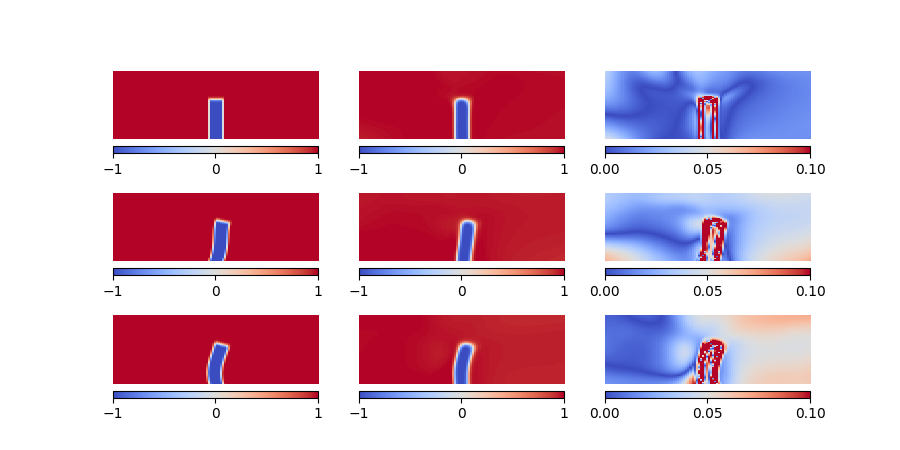
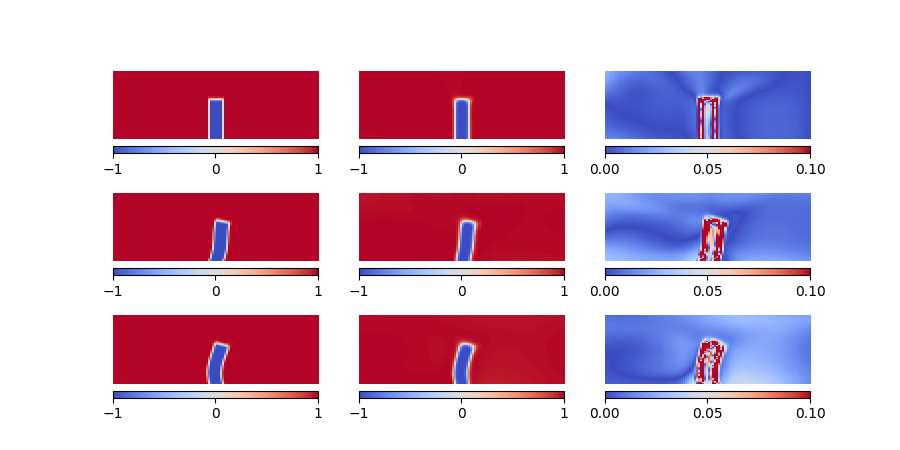
.

diff --git a/Thrombus/Plot/lmd_comp/lmd_comp_K.py b/Thrombus/Plot/lmd_comp/lmd_comp_K.py
@@ -63,7 +63,8 @@ def main():
     device = torch.device(f"cuda:{0}" if torch.cuda.is_available() else "cpu")
     print(device, flush=True)
     lr = 0.001
-    model_path = '../../Inv_L/test_34/CheckPts/model_chkpts.pt'
+    # model_path = '../../Inv_L/test_34/CheckPts/model_chkpts.pt'
+    model_path = '../../../Revision/lmd_k/test_2/CheckPts/model_chkpts.pt'
 
     file_start = 0
     file_end = 20
